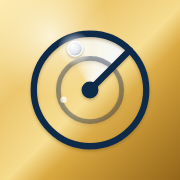
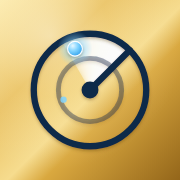
Icona: scia radar più marcata e puntino azzurro
Claude-Session: https://claude.ai/code/session_012jX5YcR2hy4Fxh9QAEarvR

Changed region(s): [[0.1667, 0.0833, 0.5, 0.4722], [0.3333, 0.5278, 0.3889, 0.5833]]

diff --git a/docs/index.html b/docs/index.html
@@ -7,7 +7,7 @@
 <meta property="og:type" content="website">
 <meta property="og:title" content="Radar Certificati">
 <meta property="og:description" content="Cedole, rendimento, distanza dalla barriera e probabilità di tenuta di oltre 13.000 certificati quotati in Italia.">
-<meta property="og:image" content="https://radarcertificati.com/icon-512.png?v=3">
+<meta property="og:image" content="https://radarcertificati.com/icon-512.png?v=4">
 <meta property="og:url" content="https://radarcertificati.com/">
 <meta property="og:site_name" content="Radar Certificati">
 <meta property="og:locale" content="it_IT">
@@ -15,8 +15,8 @@
 <meta name="twitter:card" content="summary">
 <title>Radar Certificati · screener di certificati d'investimento</title>
 <link rel="manifest" href="manifest.webmanifest">
-<link rel="icon" href="icon.svg?v=3" type="image/svg+xml">
-<link rel="apple-touch-icon" href="apple-touch-icon.png?v=3">
+<link rel="icon" href="icon.svg?v=4" type="image/svg+xml">
+<link rel="apple-touch-icon" href="apple-touch-icon.png?v=4">
 <meta name="theme-color" content="#f0eee9" id="theme-color">
 <script>try{var t=JSON.parse(localStorage.getItem("rc-theme"));if(t==="dark"||t==="light")document.documentElement.dataset.theme=t}catch(e){}</script>
 <meta name="apple-mobile-web-app-capable" content="yes">

diff --git a/docs/sw.js b/docs/sw.js
@@ -1,7 +1,7 @@
 // Service worker minimo: rende il sito installabile e usabile offline.
 // Sempre prima la rete. I dati (data/, api/) non vengono mai salvati in cache: una copia vecchia
 // mostrata senza avviso è peggio di un errore. Il resto (pagina, icone) resta disponibile offline.
-const CACHE = "radar-v19";
+const CACHE = "radar-v20";
 self.addEventListener("install", e => self.skipWaiting());
 self.addEventListener("activate", e => e.waitUntil(
   caches.keys().then(ks => Promise.all(ks.filter(k => k !== CACHE).map(k => caches.delete(k)))).then(() => self.clients.claim())
